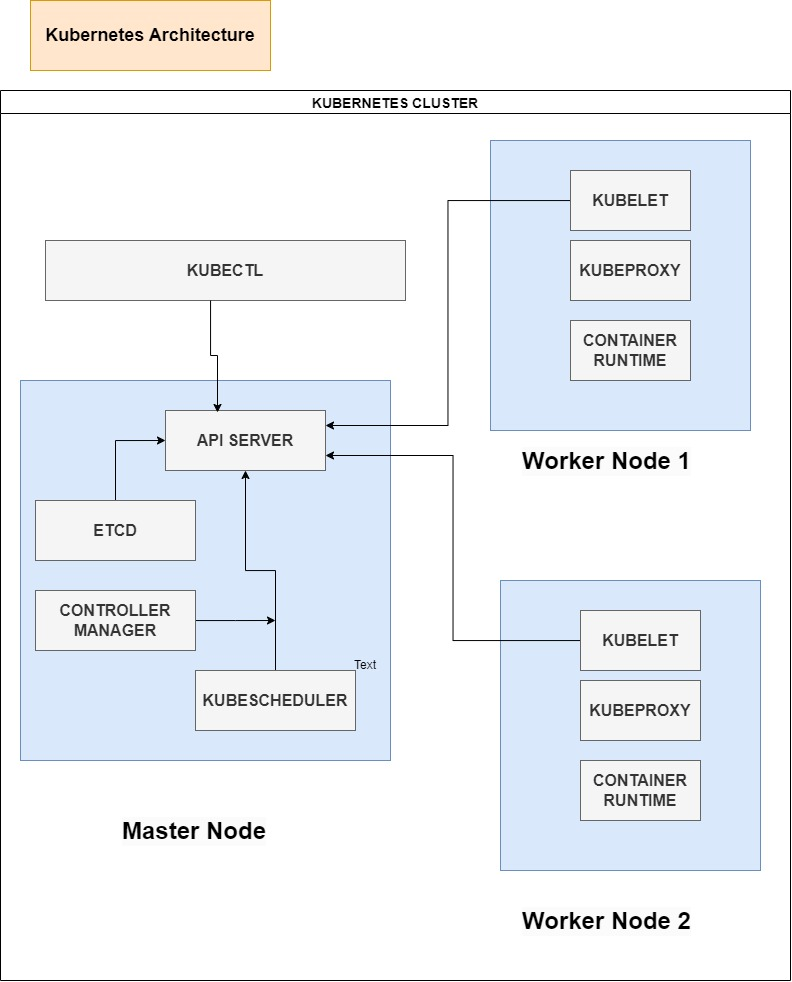
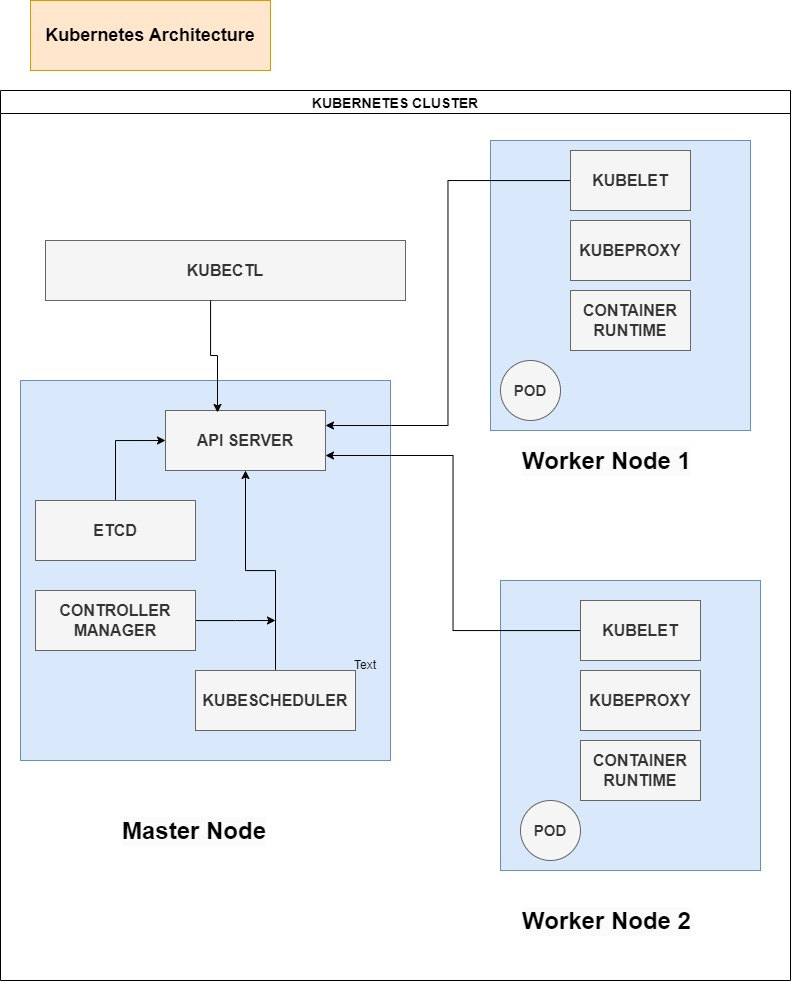
new

Changed region(s): [[0.6364, 0.1527, 0.8788, 0.4277], [0.6364, 0.611, 0.8788, 0.8859]]

diff --git a/COMPLETE_K8S.md b/COMPLETE_K8S.md
@@ -14,13 +14,39 @@ Database for the cluster, stores all the infomation of the cluster<br>
 Assigns workloads (Pods) to available nodes.<br>
 
 
-
 ### WORKER NODE
 1. kubelet:<br>
-   It is responsible containers are running as defined in PodSpecs.<br>
+   manages the Pods and regularly checks whether the pod is running or not defined as per in PodSpecs.<br>
+   If Pod is not responding the kubelet will ensure that pod will be replaced or restarted.<br>
+   Communicates with the Kubernetes control plane to manage the state of the pods.<br>
 2. kubeproxy:<br>
    Communication inside the cluster. Assigns IPs to the pods <br>
 3. container runtime <br>
    The softwate which responsible  for running container<br>
+4. Pods: 
+A pod is a very small unit that contains a container or multiple containers where
+the application is deployed.  It’s good to have one container under each pod. <br>
+   ### ALL THE COMPONENTS ARE WORKING AS PODS BY ITSELF. BUT KUBELET IS DEPLOYED AS DEMON SERVICE
 
-   ### ALL THE COMPONENTS ARE WORKING AS PODS BY ITSELF. BUT KUBELET IS DEPLOYED AS DEMONSETS
+
+## Features of Kubernetes<br>
+1. AutoScaling:<br>
+ Kubernetes supports two types of autoscaling horizontal and vertical
+scaling for large-scale production environments which helps to reduce the downtime of
+the applications.<br>
+2. Auto Healing: <br>
+containers will automatically repaired or heal and run again properly.<br>
+3. Load Balancing: <br>
+With the help of load balancing, Kubernetes distributes the traffic<br>
+between two or more containers.<br>
+4. Platform Independent: <br>
+Kubernetes can work on any type of infrastructure whether it’s On-premises, Virtual Machines, or any Cloud.<br>
+5. Fault Tolerance: <br>
+Kubernetes helps to notify nodes or pods failures and create new pods or containers as soon as possible<br>
+5. Rollback:<br>
+You can switch to the previous version.<br>
+6. Health Monitoring of Containers: <br>
+Regularly check the health of the monitor and if any container fails, create a new container.<br>
+7. Orchestration: <br>
+Suppose, three containers are running on different networks<br>
+(On-premises, Virtual Machines, and On the Cloud). Kubernetes can create one cluster<br>
